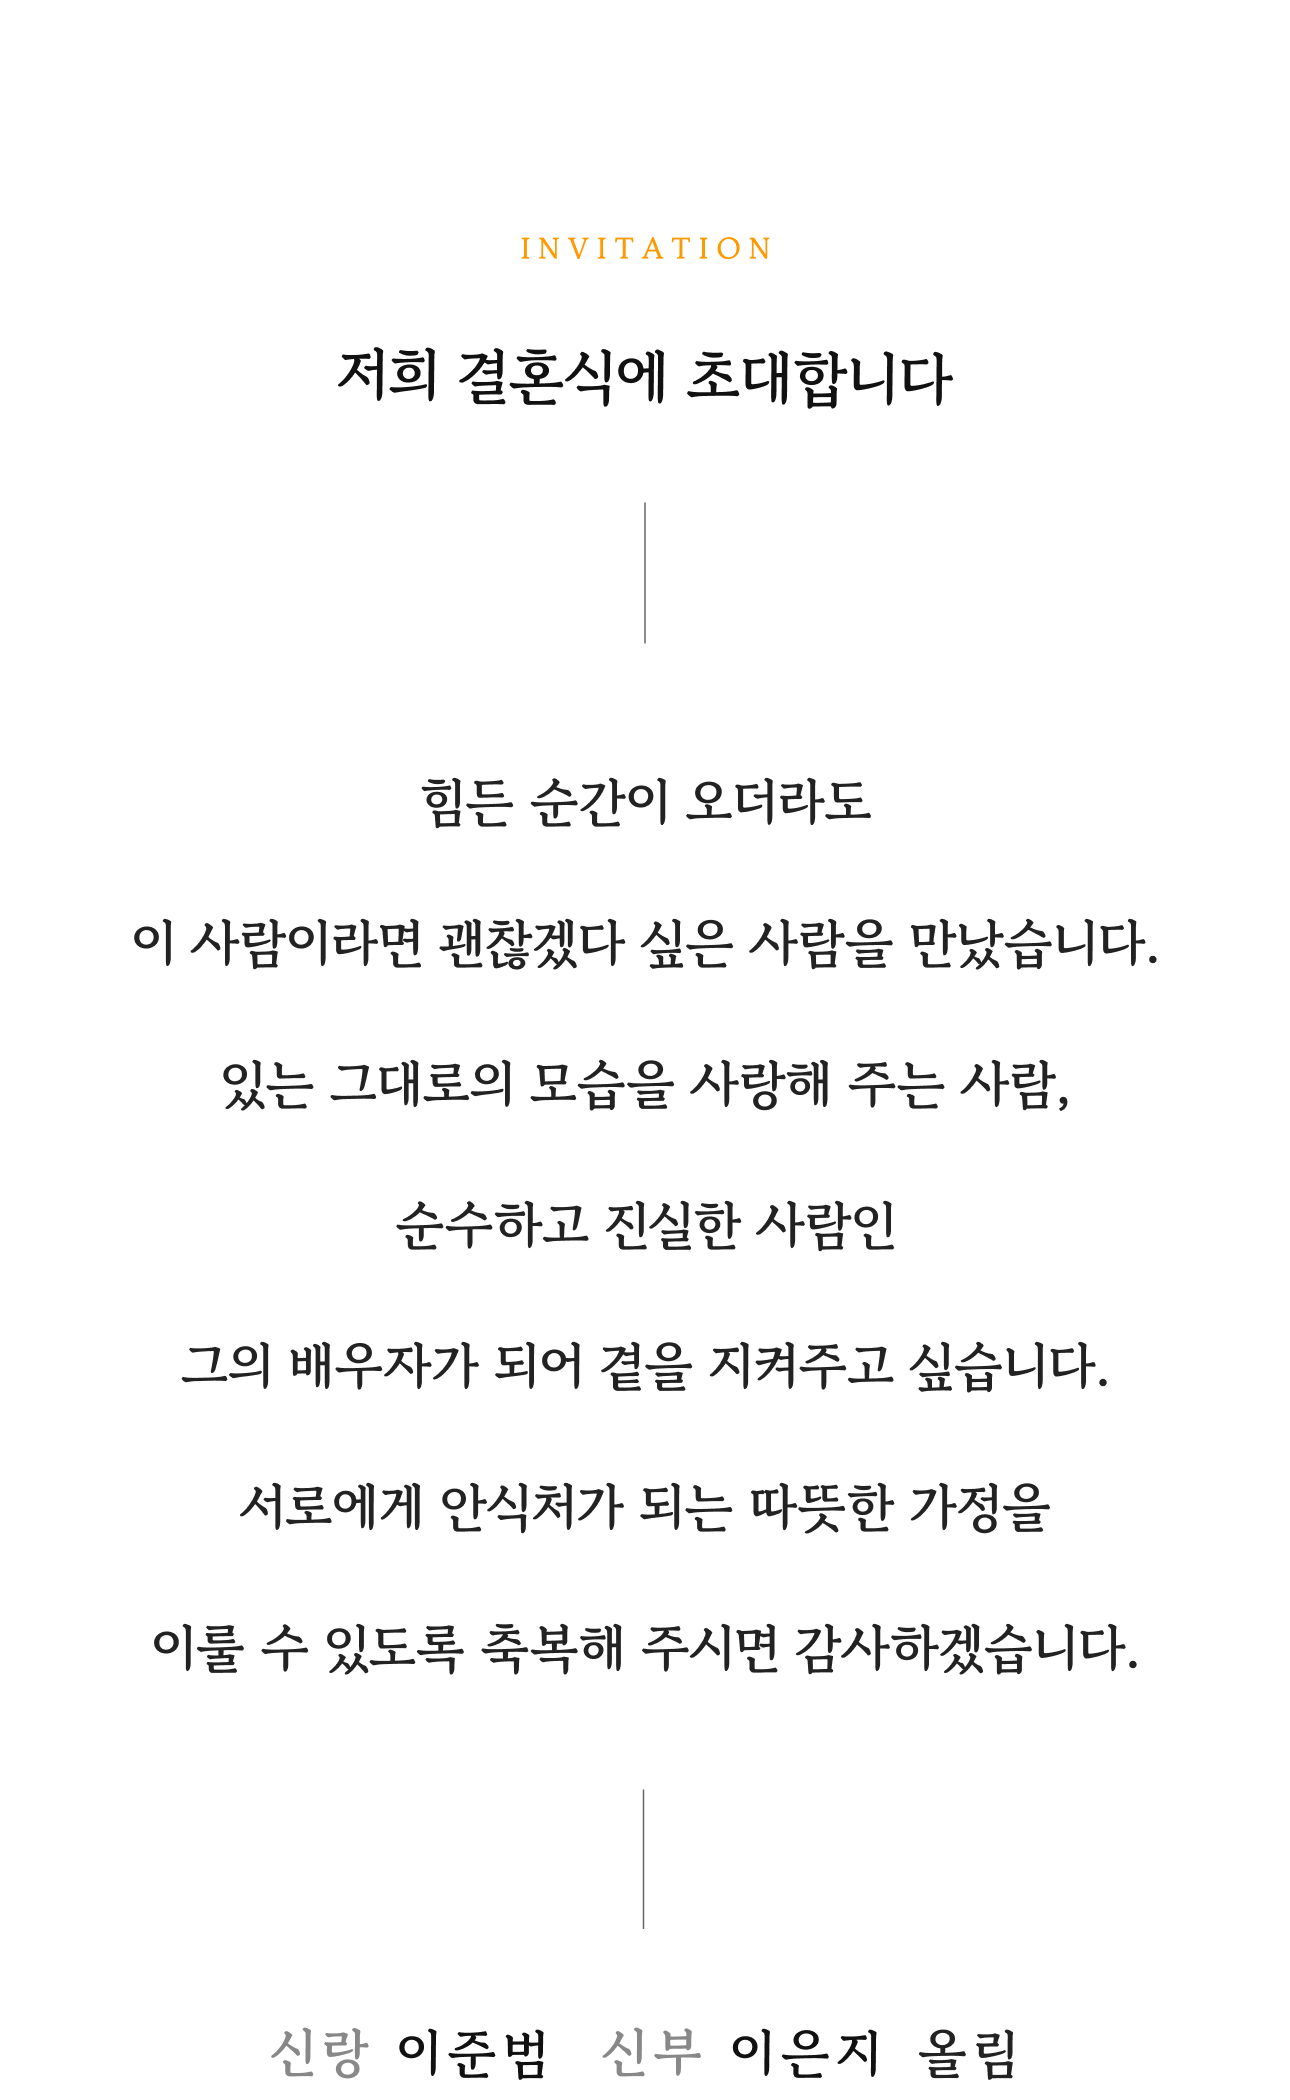
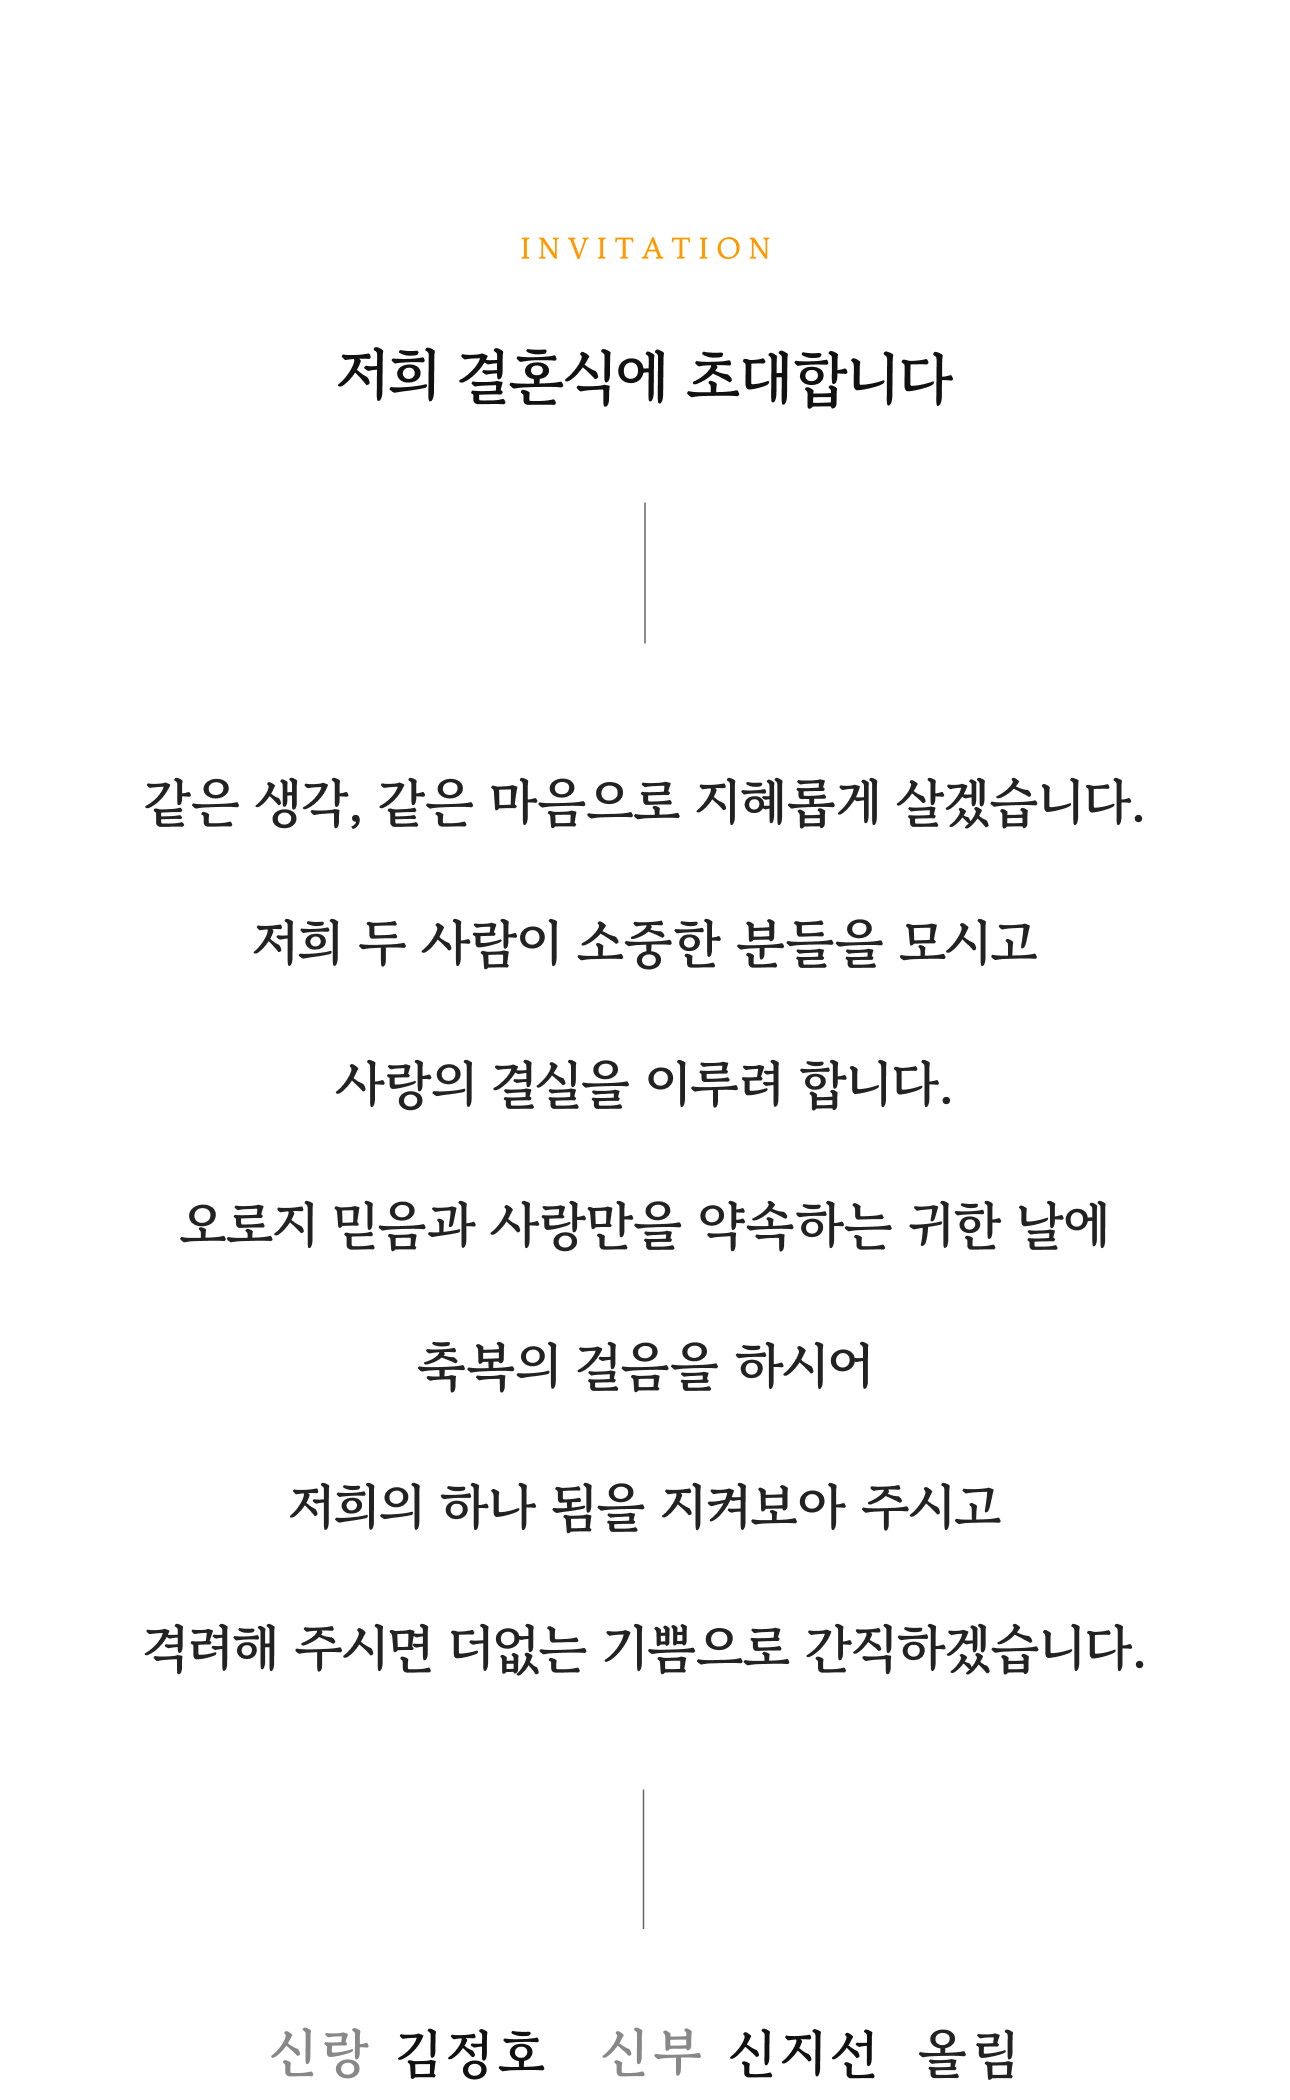
4

diff --git a/index.html b/index.html
@@ -5,7 +5,7 @@
   <meta charset="utf-8" />
   <link rel="icon" href="/img/heart_icon.png" />
   <meta name="viewport" content="width=device-width" />
-  <title>준범 ♥ 은지의 모바일 청첩장</title>
+  <title>정호 ♥ 지선의 모바일 청첩장</title>
   <meta http-equiv="X-UA-Compatible" content="IE=edge, chrome=1" />
   <meta name="viewport"
     content="width=device-width,initial-scale=1.0,maximum-scale=1.0,minimum-scale=1.0,user-scalable=no,target-densitydpi=medium-dpi" />
@@ -18,13 +18,13 @@
 
   <!-- 이미지 색인화 방지 -->
   <meta name="robots" content="noimageindex" />
-  <meta name="description" content="2025년 6월 7일 토요일♡" />
-  <link rel="canonical" href="https://mo75.luvle.kr" />
-  <meta property="og:url" content="https://mo75.luvle.kr" />
-  <meta property="og:title" content="준범 ♥ 은지의 모바일 청첩장" />
-  <meta property="og:description" content="2025년 6월 7일 토요일♡" />
-  <meta property="og:image" content="https://i.imgur.com/sh0fhB5.png" />
-  <meta property="og:site_name" content="준범 ♥ 은지의 모바일 청첩장" />
+  <meta name="description" content="2025년 7월 13일 일요일♡" />
+  <link rel="canonical" href="https://mo91.luvle.kr" />
+  <meta property="og:url" content="https://mo91.luvle.kr" />
+  <meta property="og:title" content="정호 ♥ 지선의 모바일 청첩장" />
+  <meta property="og:description" content="2025년 7월 13일 일요일♡" />
+  <meta property="og:image" content="https://i.imgur.com/BA7y2W1.png" />
+  <meta property="og:site_name" content="정호 ♥ 지선의 모바일 청첩장" />
   <script src="https://cdn.tailwindcss.com"></script>
   <link rel="stylesheet" type="text/css" href="style.css" />
   <link rel="stylesheet" href="swiper-bundle.min.css" />
@@ -104,20 +104,17 @@
             </div>
             <div style="line-height: 40px;">
               <p id="parentInfo">
-                <!-- <span style="font-size: large"> -->
-                <span style="font-size: large; display: inline-flex; align-items: center;">
-                  <img src="img/flower_image.png" style="width: 20px; height: 20px; margin-right: 4px;">
-                  <span style="position: relative; top: 2px;">이광호 · 김은순</span>
-                </span>
+                <span style="font-size: large">
+               김영찬 · 백미수</span>
                 <span>
                   <span>의</span>
                   <span style="
                           font-size: large;
                           min-width: 3rem;
                           display: inline-block;
-                        ">차남</span>
+                        ">아들</span>
                 </span>
-                <span style="font-size: large">이준범</span>
+                <span style="font-size: large">김정호</span>
                 <span style="
                         font-size: large;
                         display: inline-block;
@@ -132,7 +129,7 @@
                   document
                     .getElementById("man-call-button")
                     .addEventListener("click", function () {
-                      var phoneNumber = "010-8834-7967";
+                      var phoneNumber = "010-2627-5587";
                       window.location.href = "tel:" + phoneNumber;
                     });
                 </script>
@@ -141,10 +138,7 @@
                 <!-- <span style="font-size: large; display: inline-flex; align-items: center;">
                   <img src="img/flower_image.png" style="width: 20px; height: 20px; margin-right: 4px;"> -->
                 <span style="font-size: large">
-                  이창효 ·
-                  <span style="font-size: large; display: inline-flex; align-items: center;">
-                    <img src="img/flower_image.png" style="width: 20px; height: 20px; margin-right: 4px;">
-                    <span style="position: relative; top: 2px;">최귀애</span>
+                  신호식 · 윤미라</span>
                   </span>
                 </span>
                 <span>의</span>
@@ -152,9 +146,9 @@
                           font-size: large;
                           min-width: 3rem;
                           display: inline-block;
-                        ">장녀</span>
+                        ">딸</span>
                 </span>
-                <span style="font-size: large">이은지</span>
+                <span style="font-size: large">신지선</span>
                 <span style="
                         font-size: large;
                         display: inline-block;
@@ -169,7 +163,7 @@
                   document
                     .getElementById("woman-call-button")
                     .addEventListener("click", function () {
-                      var phoneNumber = "010-8235-8515";
+                      var phoneNumber = "010-9989-2254";
                       window.location.href = "tel:" + phoneNumber;
                     });
                 </script>
@@ -281,21 +275,21 @@
                     text-align: center;
                     line-height: 1.5rem;
                   ">
-              <p>서울 영등포구 영중로55</p>
+              <p>충북 청주시 청원구 주중동 116</p>
               <p style="font-weight: 600; color: #000000">
-                웨딩그룹위더스 6층 메리엘 컨벤션
+                트리웨딩 단독홀
               </p>
             </div>
             <div class="weddinghall-call-info">
               <button id="weddingHallCallButton">
                 <img src="img/call.png" alt="전화" style="width: 10px; height: 10px" />
-                <p id="weddingHallCallP">02 - 6418 - 3000</p>
+                <p id="weddingHallCallP">010 - 2600 - 0830</p>
               </button>
               <script>
                 document
                   .getElementById("weddingHallCallButton")
                   .addEventListener("click", function () {
-                    var phoneNumber = "02-6418-3000";
+                    var phoneNumber = "010-2600-0830";
                     window.location.href = "tel:" + phoneNumber;
                   });
               </script>
@@ -312,8 +306,8 @@
           var mapContainer = document.getElementById("map"), // 지도를 표시할 div
             mapOption = {
               center: new kakao.maps.LatLng(
-                37.521372,
-                126.904590
+                36.67909759830667,
+                127.498035671958
               ), // 지도의 중심좌표
               level: 3, // 지도의 확대 레벨
             };
@@ -338,8 +332,8 @@
 
           // 마커가 표시될 위치입니다
           var markerPosition = new kakao.maps.LatLng(
-            37.521372,
-            126.904590
+            36.67909759830667,
+            127.498035671958
           );
 
           // 마커를 생성합니다
@@ -370,9 +364,9 @@
           const userAgent = navigator.userAgent.toLowerCase();
   
           if (userAgent.indexOf('iphone') > -1 || userAgent.indexOf('android') > -1) {
-            window.location.href = "kakaomap://place?id=24250591"
+            window.location.href = "kakaomap://place?id=171781714"
           } else {
-            window.location.href = "https://kko.kakao.com/WXjC36niqg";
+            window.location.href = "https://kko.kakao.com/YSW5Wb26tU";
           }
         });
       </script>
@@ -423,8 +417,8 @@
           <div class="account-panel">
             <ul>
               <li>
-                <strong>신랑 이준범</strong>
-                <p>카카오뱅크 3333-07-6320810</p>
+                <strong>신랑 김정호</strong>
+                <p>우리은행 1002-344-601081</p>
                 <div style="display:flex;gap:10px"><button type="button"
                     style="width:calc(100% - 5px);color:#817b7b;font-size:13px;border:1px solid #cdcdcd;border-radius:5px;margin-top:10px;padding:5px 0;height: 40px"
                     class="jsx-3433029997 button"><svg width="16" height="16" viewBox="0 0 20 20" fill="none"
@@ -445,7 +439,7 @@
                     <span class="jsx-3433029997 button__text">카카오페이</span>
                   </button></div>
               </li>
-              <li>
+              <!-- <li>
                 <strong>혼주 김은순</strong>
                 <p>우리은행 385-07-009834</p>
                 <div style="display:flex;gap:10px"><button type="button"
@@ -468,7 +462,7 @@
                     <span class="jsx-3433029997 button__text">카카오페이</span>
                   </button>
                 </div>
-              </li>
+              </li> -->
 
             </ul>
           </div>
@@ -479,8 +473,8 @@
           <div class="account-panel">
             <ul>
               <li>
-                <strong>신부 이은지</strong>
-                <p>카카오뱅크 3333-27-4861436</p>
+                <strong>신부 신지선</strong>
+                <p>카카오뱅크 3333-07-7131850</p>
                 <div style="display:flex;gap:10px">
                   <button type="button"
                     style="width:calc(100% - 5px);color:#817b7b;font-size:13px;border:1px solid #cdcdcd;border-radius:5px;margin-top:10px;padding:5px 0;height: 40px"
@@ -504,7 +498,7 @@
                   </button>
                 </div>
               </li>
-              <li>
+              <!-- <li>
                 <strong>혼주 이창효</strong>
                 <p>농협은행 352-1626-2014-13</p>
                 <div style="display:flex;gap:10px"><button type="button"
@@ -527,7 +521,7 @@
                     <span class="jsx-3433029997 button__text">카카오페이</span>
                   </button>
                 </div>
-              </li>
+              </li> -->
               <!-- <li>
                 <strong>혼주 이영숙</strong>
                 <p>기업은행 01190894112</p>
@@ -571,7 +565,7 @@
                 this.classList.toggle("active");
                 var accountPanel = this.nextElementSibling;
                 if (this.classList.contains("active")) {
-                  accountPanel.style.height = "400px";
+                  accountPanel.style.height = "250px";
                   accountPanel.style.padding = "5%";
                 } else {
                   accountPanel.style.height = "0";
@@ -595,22 +589,22 @@
                     Kakao.Share.sendDefault({
                       objectType: "feed",
                       content: {
-                        title: "준범 ♥ 은지의 모바일 청첩장",
-                        description: "2025년 6월 7일 토요일♡",
-                        imageUrl: "https://i.imgur.com/sh0fhB5.png",
+                        title: "정호 ♥ 지선ㄴ의 모바일 청첩장",
+                        description: "2025년 7월 13일 일요일♡",
+                        imageUrl: "https://i.imgur.com/BA7y2W1.png",
                         imageWidth: 1200,
                         imageHeight: 630,
                         link: {
-                          mobileWebUrl: "https://mo75.luvle.kr",
-                          webUrl: "https://mo75.luvle.kr",
+                          mobileWebUrl: "https://mo91.luvle.kr",
+                          webUrl: "https://mo91.luvle.kr",
                         },
                       },
                       buttons: [
                         {
                           title: "자세히 보기",
                           link: {
-                            mobileWebUrl: "https://mo75.luvle.kr",
-                            webUrl: "https://mo75.luvle.kr",
+                            mobileWebUrl: "https://mo91.luvle.kr",
+                            webUrl: "https://mo91.luvle.kr",
                           },
                         },
                       ],

diff --git a/countdown.js b/countdown.js
@@ -1,7 +1,7 @@
 document.addEventListener("DOMContentLoaded", function () {
   function updateCountdown() {
     // 결혼 날짜 설정 (년, 월(0부터 시작), 일, 시, 분)
-    const weddingDate = new Date(2025, 5, 7, 18, 0); // 예시: 2024년 10월 12일
+    const weddingDate = new Date(2025, 6, 13, 15, 0); // 예시: 2024년 10월 12일
 
     const currentDate = new Date();
     const timeDifference = weddingDate - currentDate;
